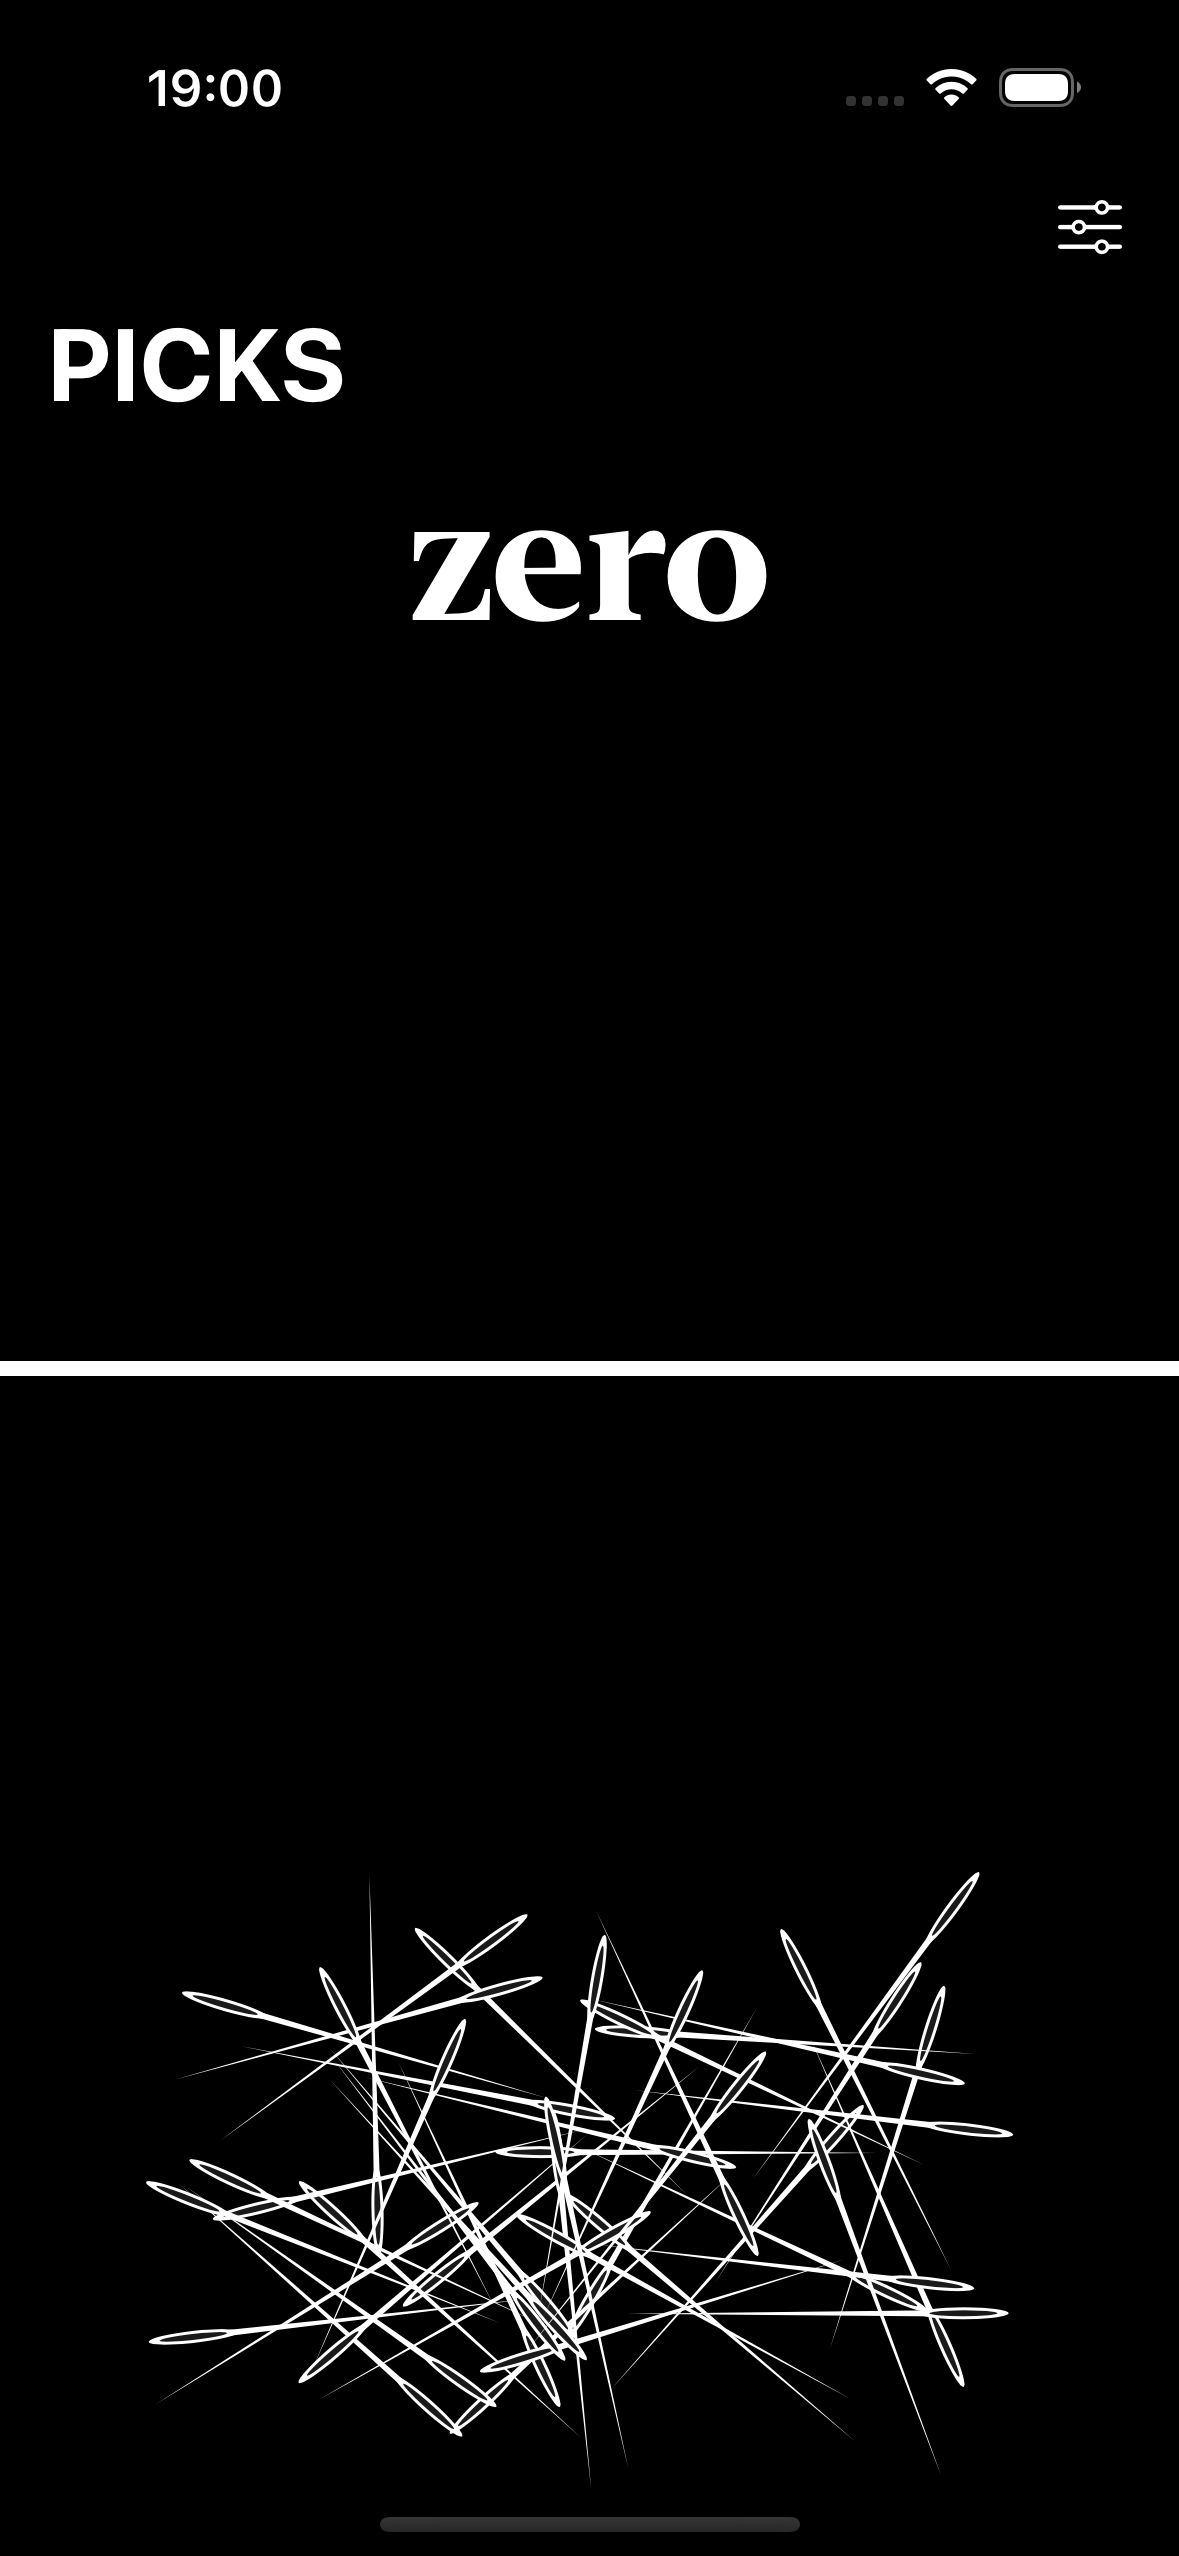
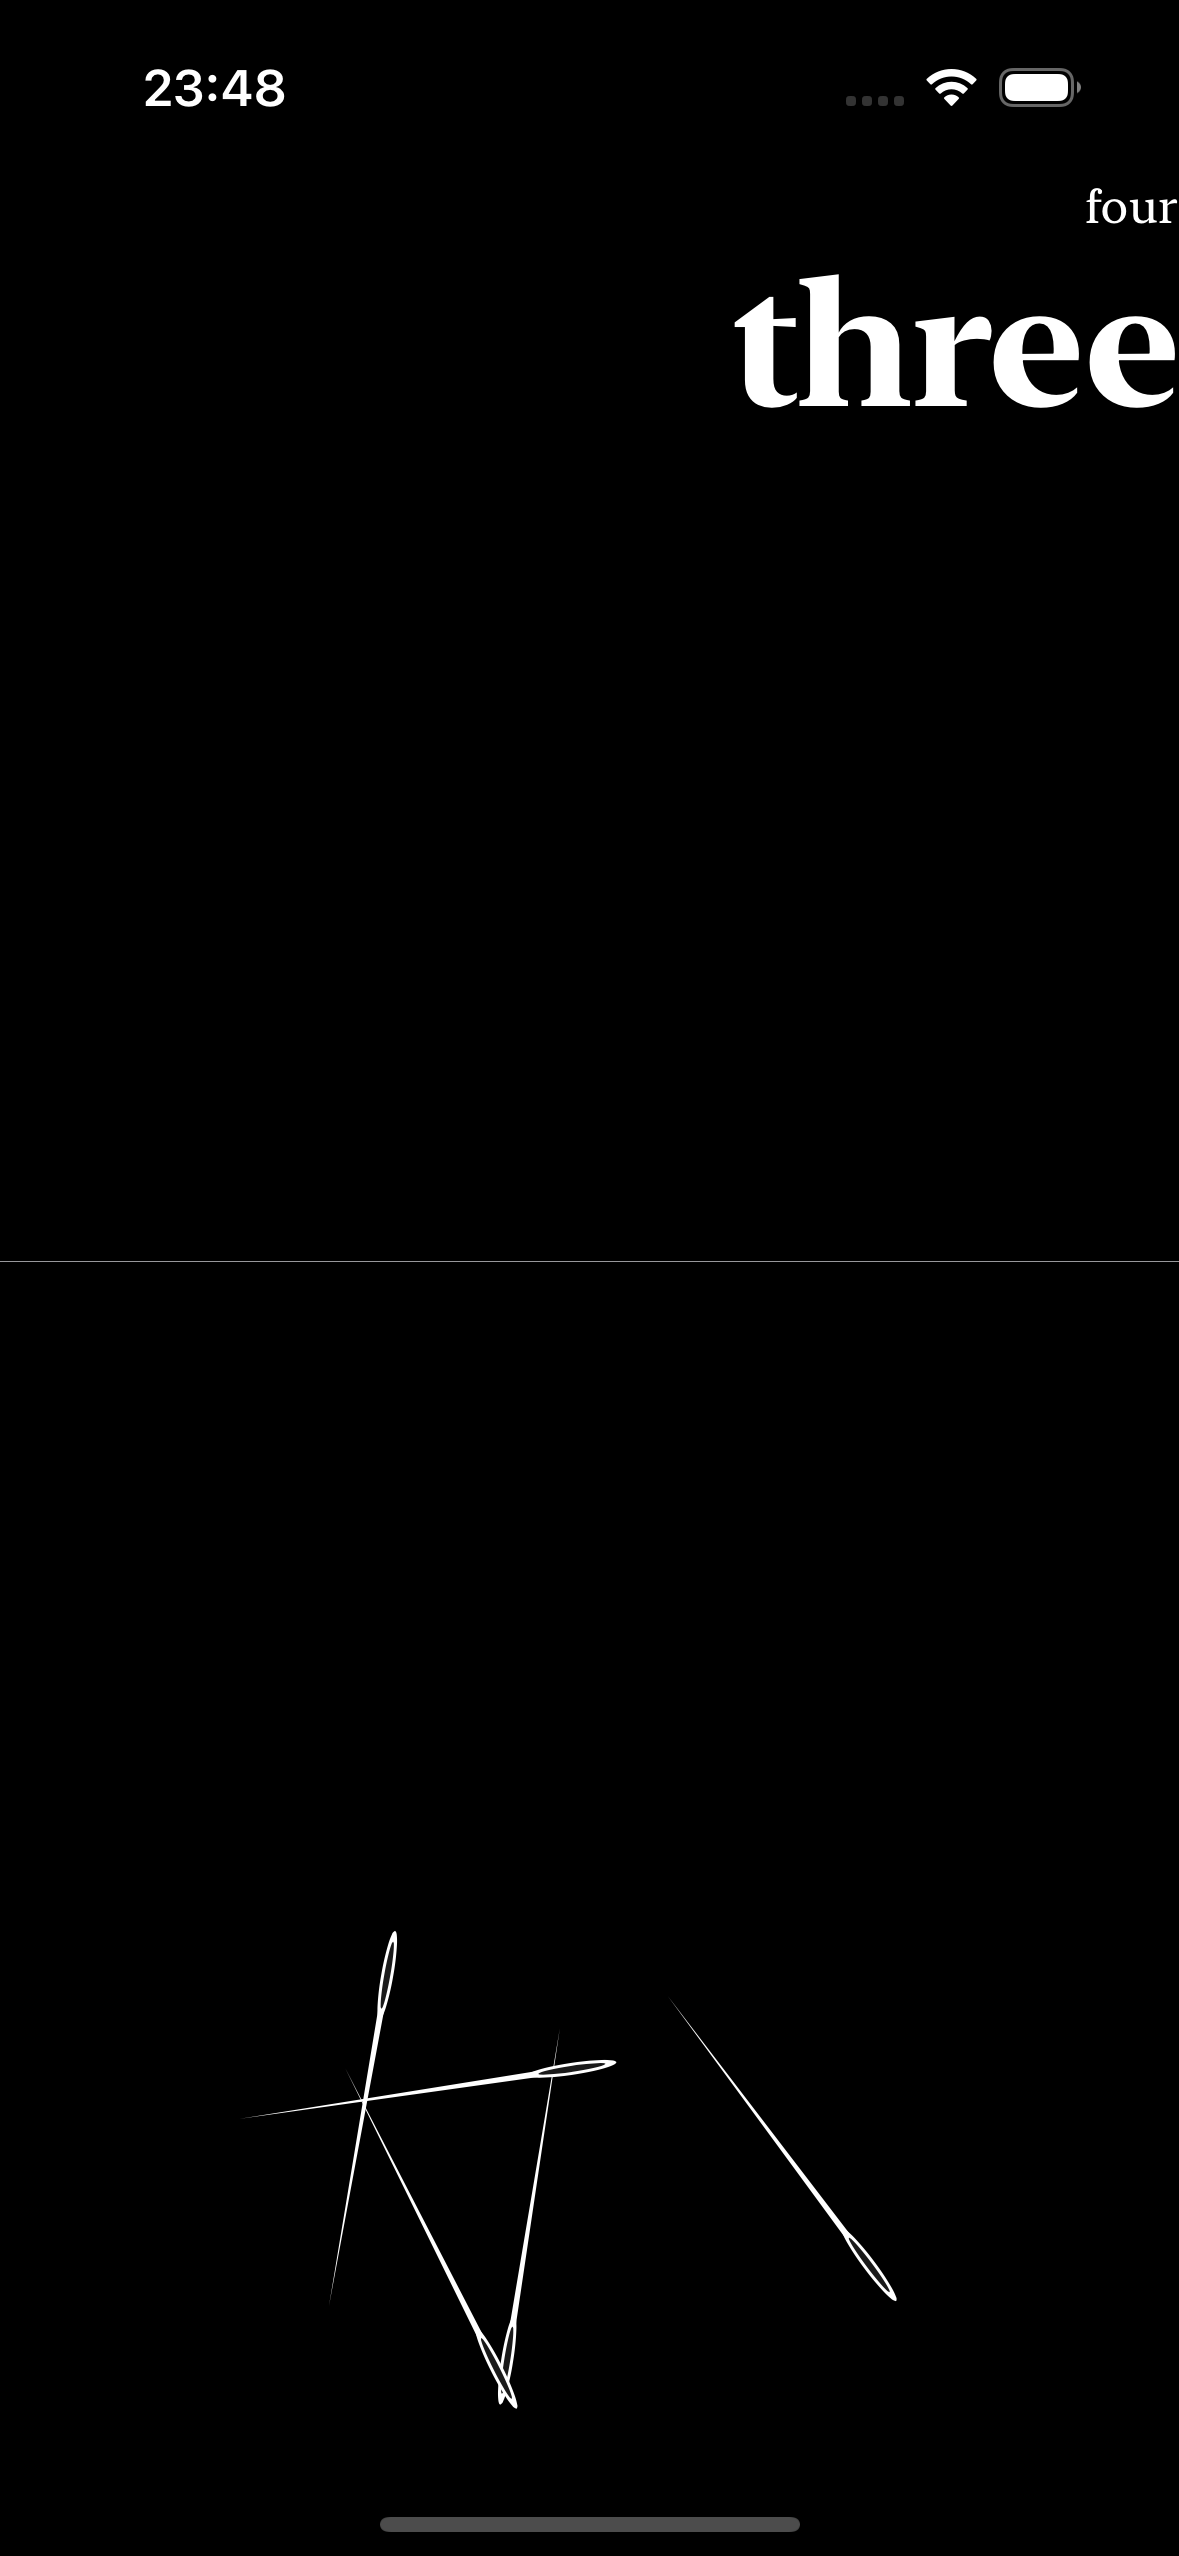
updated previews and simplified ui

diff --git a/Pick/Core/PlayView.swift b/Pick/Core/PlayView.swift
@@ -9,72 +9,58 @@ import SwiftUI
 
 struct PlayView: View {
     @State private var score: Int = 0
-    @State private var picks: String = "1"
-    @State private var showingSheet: Bool = false
-    
-    private var pickCount: Int {
-        Int(picks) ?? 0
-    }
+    @AppStorage("level") var level: Int = 1
+    @AppStorage("picks") var picks: Int = 1
     
     var body: some View {
-        NavigationView {
+        ZStack {
             VStack(spacing: 0) {
-                Text(numberToWords(score))
-                    .foregroundStyle(.white)
-                    .font(.system(size: 60, weight: .bold))
-                    .multilineTextAlignment(.trailing)
+                Group {
+                    Text(numberToWords(level))
+                        .font(.callout)
+                    
+                    Text(numberToWords(score))
+                        .font(.system(size: 60, weight: .bold))
+                        .multilineTextAlignment(.trailing)
+                }
+                .frame(width: UIScreen.main.bounds.width, alignment: .trailing)
                 
                 Spacer()
                 
-                Stand()
+                Divider()
+                    .background(Color.white)
                 
                 Spacer()
                 
                 ZStack {
-                    ForEach(0..<pickCount, id: \.self) { _ in
-                        NeedleView(score: $score)
-                    }
-                    
-                    if score == pickCount {
+                    if score == picks {
                         VStack {
-                            Text("YEYY! You Picked All")
-                                .foregroundStyle(.white)
+                            Text("Bravo!!! You Picked \(picks)!")
                                 .font(.largeTitle)
                             
-                            Button("New Game", systemImage: "slider.horizontal.3") {
-                                picks = ""
-                                showingSheet = true
+                            Button("Pick More", systemImage: "figure.pickleball") {
+                                picks *= 2
+                                level += 1
                                 score = 0
                             }
                             .padding(10)
-                            .foregroundStyle(.white)
-                            .background(Color.gray)
+                            .background(.ultraThinMaterial)
                             .clipShape(RoundedRectangle(cornerRadius: 10))
+                        }
+                    } else {
+                        ForEach(0..<picks, id: \.self) { _ in
+                            NeedleView(score: $score)
                         }
                     }
                 }
-                .offset(y: -30)
+                .offset(y: -50)
             }
-            .toolbar {
-                ToolbarItem(placement: .navigationBarTrailing) {
-                    Button {
-                        showingSheet.toggle()
-                    } label: {
-                        Image(systemName: "slider.horizontal.3")
-                            .foregroundStyle(.white)
-                    }
-                }
-            }
-            .sheet(isPresented: $showingSheet) {
-                EditView(picks: $picks)
-                    .presentationDetents([.large, .medium])
-            }
-            .navigationTitle("PICKS")
-            .padding(.horizontal, 10)
-            .fontDesign(.serif)
-            .frame(maxWidth: .infinity, maxHeight: .infinity)
-            .preferredColorScheme(.dark)
         }
+        .padding(.horizontal, 10)
+        .fontDesign(.serif)
+        .frame(maxWidth: .infinity, maxHeight: .infinity)
+        .preferredColorScheme(.dark)
+        .foregroundStyle(.white)
     }
     
     func numberToWords(_ number: Int) -> String {

diff --git a/README.md b/README.md
@@ -15,28 +15,28 @@ Pick is a SwiftUI-based game where users interact with "Needles" and score point
 
 ![Preview](preview/VideoPreview.gif)  
 ![PlayView](preview/PlayView.png)  
-![EditView](preview/EditView.png)  
-*Description of what the screenshot shows.*
+![EndView](preview/EndView.png)  
+_Description of what the screenshot shows._
 
 ## Installation
 
 1. **Clone the repository**:
 
-    ```sh
-    git clone https://github.com/OmPreetham/pick.git
-    ```
+   ```sh
+   git clone https://github.com/OmPreetham/pick.git
+   ```
 
 2. **Navigate to the project directory**:
 
-    ```sh
-    cd pick
-    ```
+   ```sh
+   cd pick
+   ```
 
 3. **Open the project in Xcode**:
 
-    ```sh
-    open Pick.xcodeproj
-    ```
+   ```sh
+   open Pick.xcodeproj
+   ```
 
 4. **Build and run the project** in Xcode.
 
